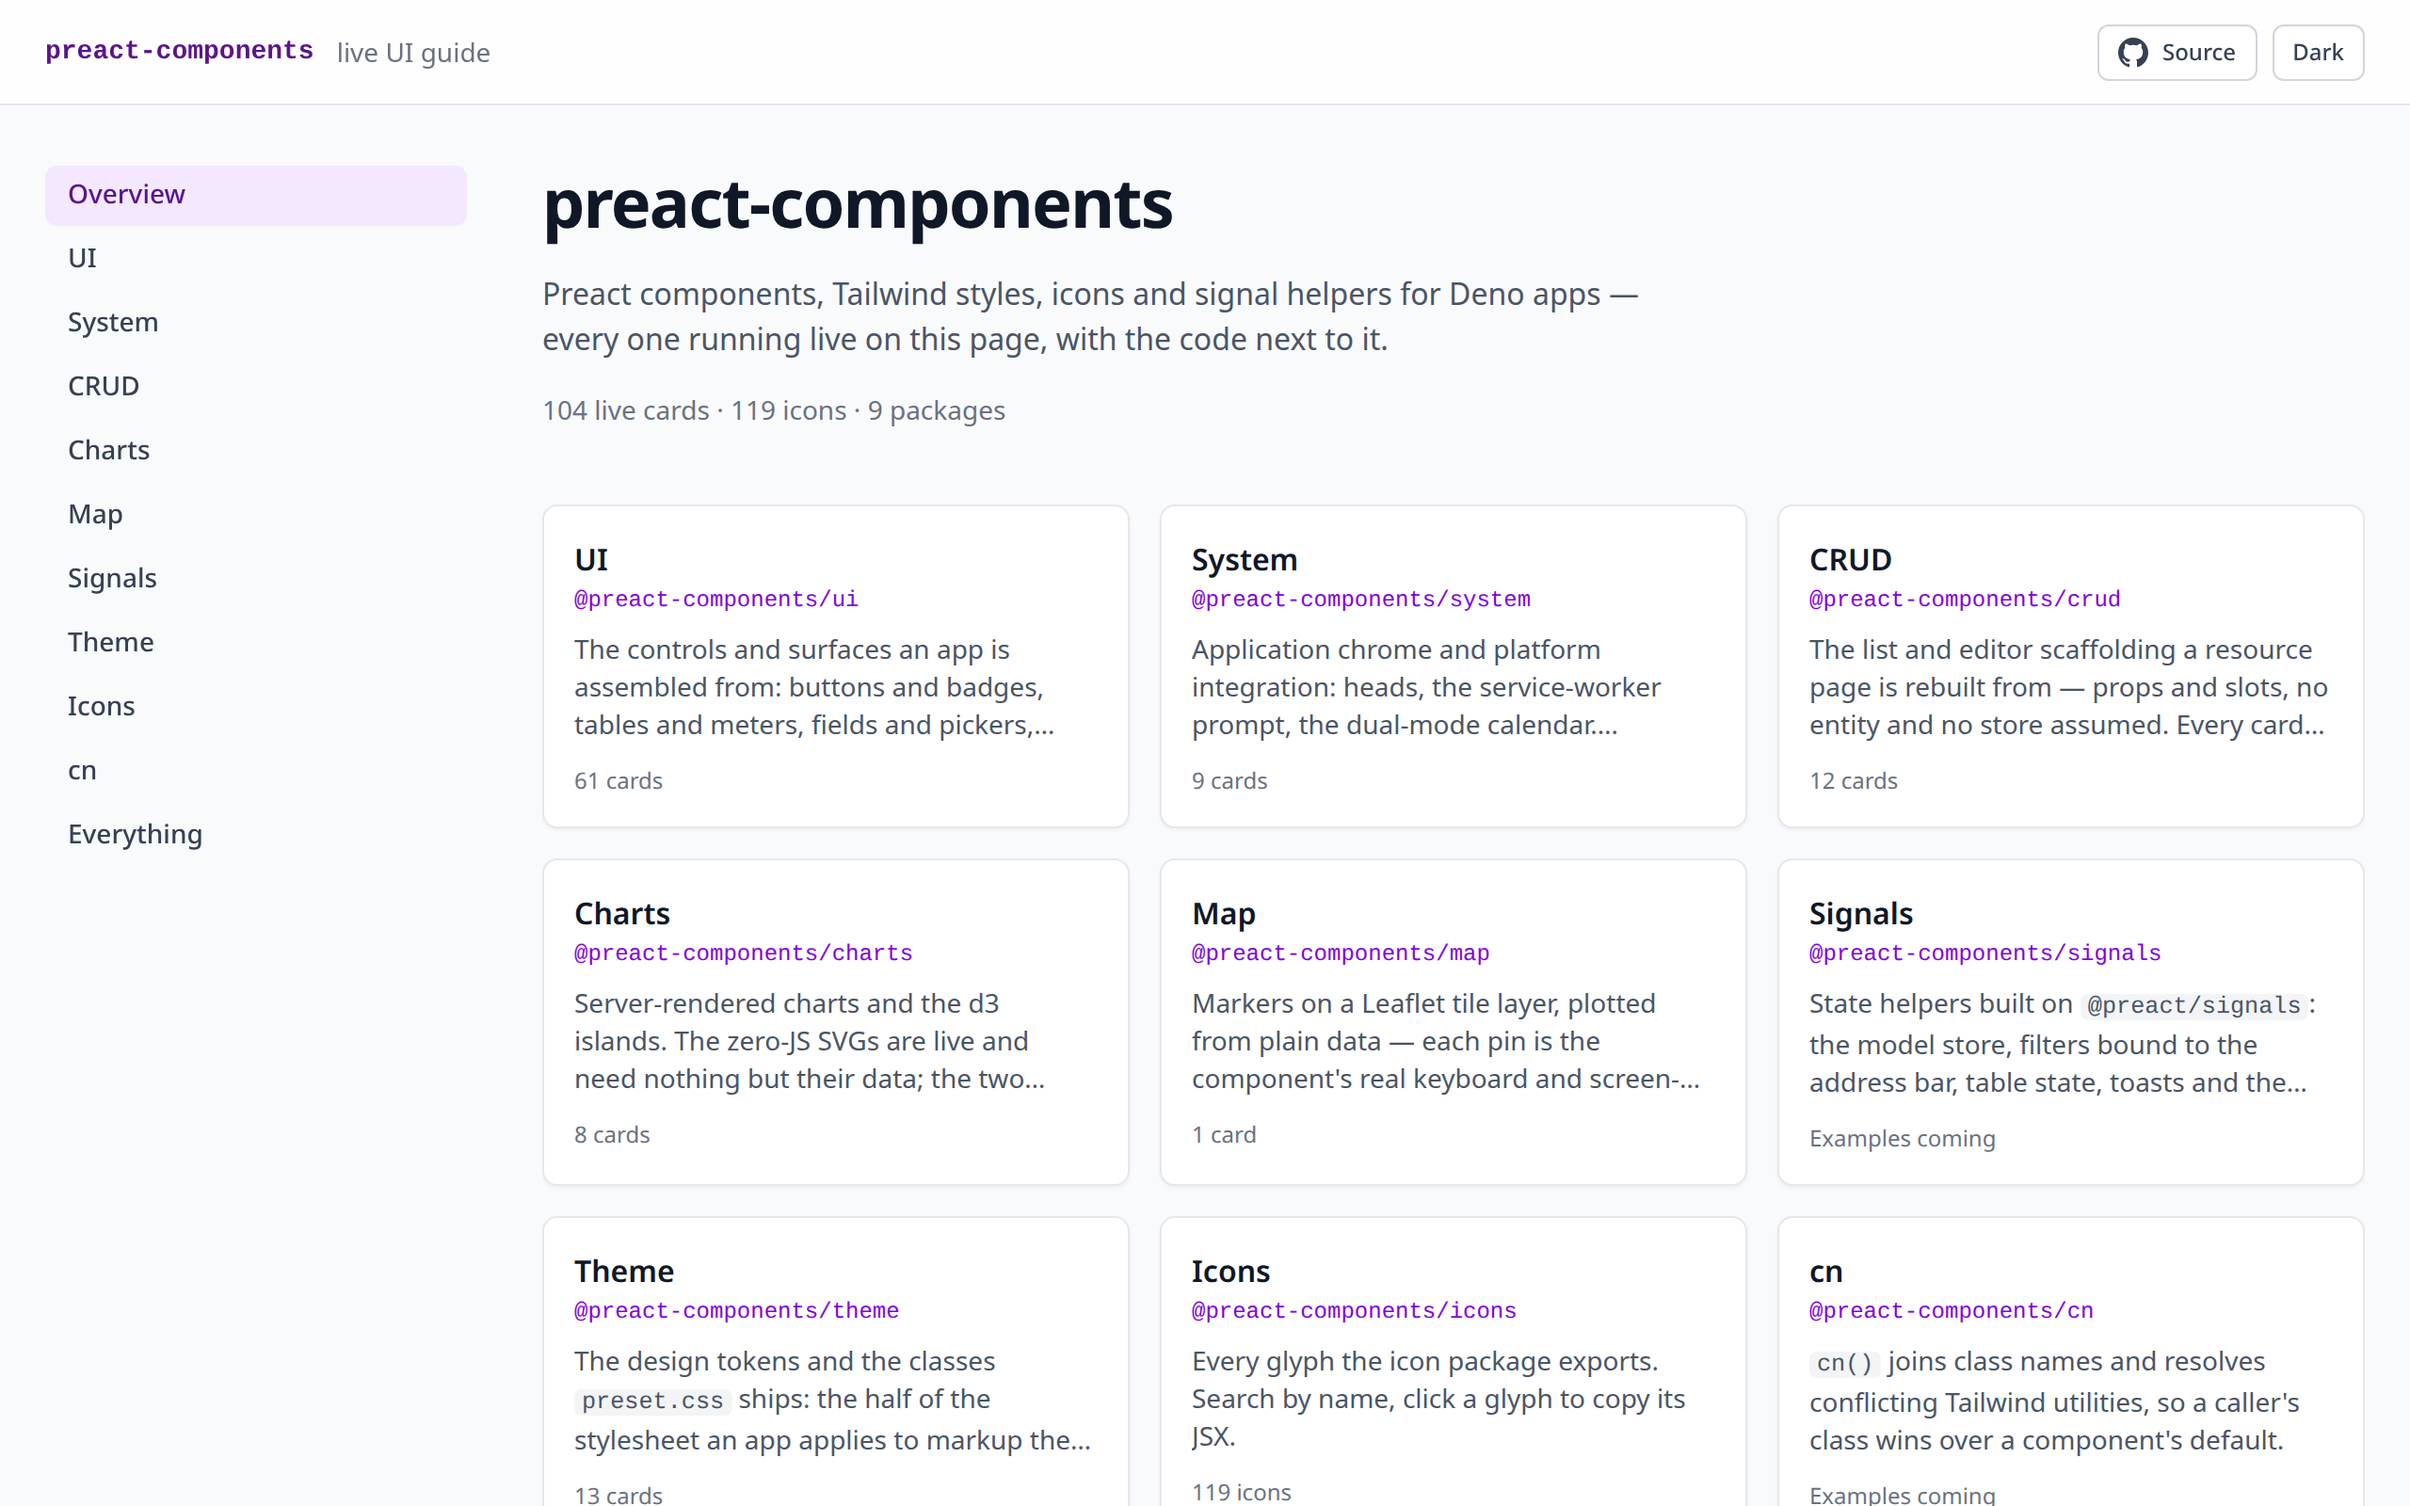
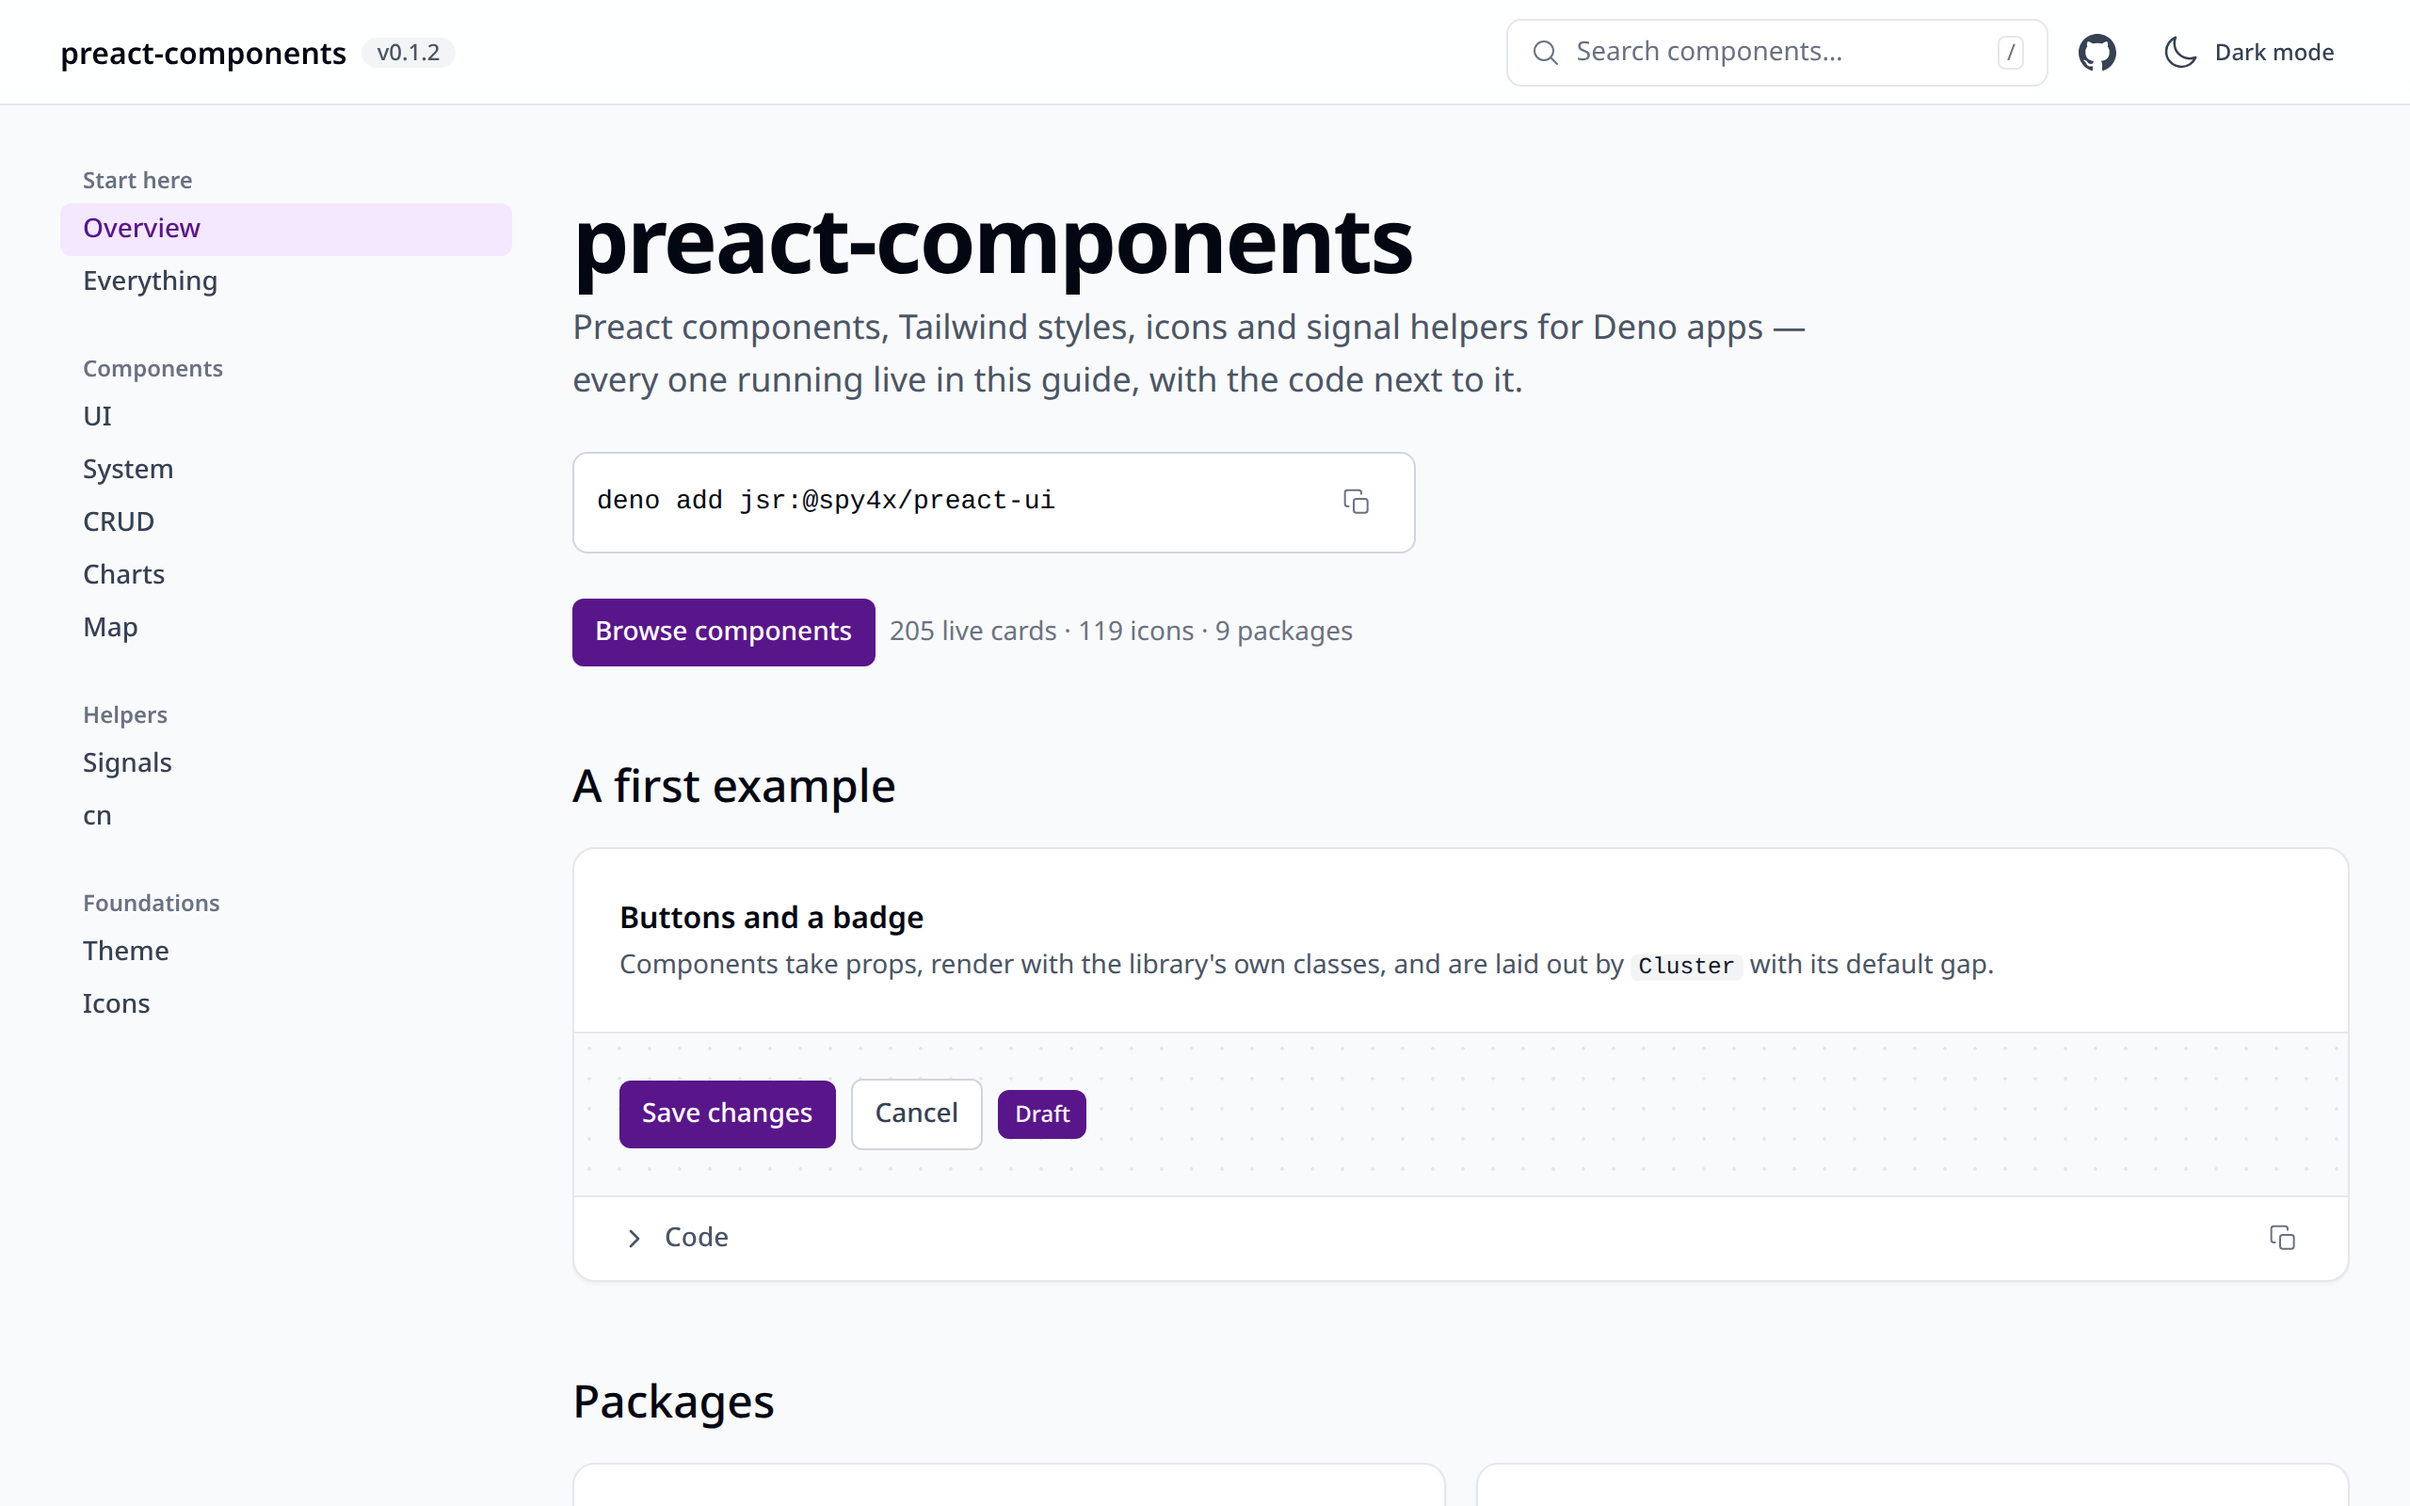
chore: close the guide redesign (#349)
* test: drop the spacing exemption the guide redesign needed

* docs: retake the README screenshots of the redesigned guide

* docs: rewrap the spacing check paragraph

diff --git a/infra/scripts/spacing-scale.test.ts b/infra/scripts/spacing-scale.test.ts
@@ -8,12 +8,6 @@
  * test asserts on classes, and the checker's own test has to spell out the classes it must
  * report. What a test asserts still has to match the component, so a test file cannot keep an
  * off-scale class the component no longer renders.
- *
- * `ui-guide/` and `pages/` joined with #328, which redesigns the guide. The section files the
- * redesign's later pull requests rewrite still carry off-scale values; each says so in its own
- * first line, {@link OFF_SCALE_MARKER}, and the pull request that moves the file to the scale
- * deletes that line. The marker lives in the file rather than in a list here, so two pull requests
- * that each clear one file never edit the same lines. No file may carry it once #328 closes.
  */
 
 import { expect } from "@std/expect"
@@ -31,26 +25,6 @@ export const SPACING_PACKAGES = [
   "ui-guide",
   "pages",
 ] as const
-
-/**
- * The line a file carries while it still has off-scale spacing and waits for #328 to move it to
- * the new design. Temporary: a marked file that has become clean fails the test, so a marker only
- * ever goes away, and none may be left when #328 closes.
- */
-export const OFF_SCALE_MARKER = /^\/\/ spacing: off-scale until #328\b/
-
-/**
- * The only files allowed to carry {@link OFF_SCALE_MARKER}: the section files #328's later pull
- * requests rewrite. A lane deletes a file's marker and never edits this list; the list only keeps a
- * marker from switching the check off anywhere else.
- */
-const MARKABLE_FILES = [
-  "ui-guide/sections/display.tsx",
-  "ui-guide/sections/feedback.tsx",
-  "ui-guide/sections/forms.tsx",
-  "ui-guide/sections/inputs.tsx",
-  "ui-guide/sections/theme-examples.tsx",
-]
 
 /** Build output under a covered directory: generated, not source. */
 const SKIPPED_DIRECTORIES = ["pages/dist"]
@@ -106,35 +80,10 @@ async function offScale(
   return found
 }
 
-/** The covered files that carry {@link OFF_SCALE_MARKER}. */
-async function markedFiles(files: string[]): Promise<string[]> {
-  const marked: string[] = []
-  for (const path of files) {
-    if (OFF_SCALE_MARKER.test(await readSource(path))) marked.push(path)
-  }
-  return marked
-}
-
 describe("spacing scale", () => {
   it("finds no spacing class off the scale in the covered packages", async () => {
     const files = (await Promise.all(SPACING_PACKAGES.map(sourceFiles))).flat()
-    const marked = await markedFiles(files)
-    expect(await offScale(files.filter((path) => !marked.includes(path)))).toEqual([])
-  })
-
-  it("lets only the files #328 still rewrites carry the marker, on their first line", async () => {
-    const files = (await Promise.all(SPACING_PACKAGES.map(sourceFiles))).flat()
-    const stray = (await markedFiles(files)).filter((path) => !MARKABLE_FILES.includes(path))
-    expect(stray, "only a listed section file may switch the spacing check off").toEqual([])
-  })
-
-  it("marks only files that still carry an off-scale value until #328 closes", async () => {
-    const files = (await Promise.all(SPACING_PACKAGES.map(sourceFiles))).flat()
-    const clean: string[] = []
-    for (const path of await markedFiles(files)) {
-      if ((await offScale([path])).length === 0) clean.push(path)
-    }
-    expect(clean, "these files are on the scale now: delete their marker line").toEqual([])
+    expect(await offScale(files)).toEqual([])
   })
 
   it("reads the components and the preset, and skips test files and generated files", async () => {

diff --git a/README.md b/README.md
@@ -10,7 +10,7 @@ The design system and the original markup are by [Eirene](https://github.com/Eir
 
 <picture>
   <source media="(prefers-color-scheme: dark)" srcset="docs/screenshots/guide-overview-dark.png">
-  <img src="docs/screenshots/guide-overview-light.png" width="1280" alt="The live UI guide's overview page: a side navigation listing every package, and one card per package — UI, System, CRUD, Charts, Map, Signals, Theme, Icons and cn — each with its import name, a one-line summary and a count of its live cards or icons, or the words Examples coming for a package that has none yet.">
+  <img src="docs/screenshots/guide-overview-light.png" width="1280" alt="The live UI guide's overview page: a header with the library's name and version, a search box, a GitHub link and a dark-mode switch; a side navigation grouped into Start here, Components, Helpers and Foundations; and the page itself, with the install command, a Browse components button beside the counts of live cards, icons and packages, and a first example card showing two buttons and a badge above its code toggle.">
 </picture>
 
 Live guide: https://spy4x.github.io/preact-components — every component running, with its code.
@@ -101,9 +101,9 @@ reusable Preact + signals package. See [`CREDITS.md`](./CREDITS.md).
 Taken from a local build of the demo site by `deno task --cwd pages screenshots`, in the headless
 Chromium the browser checks use, at 1280×800 and twice the pixel density.
 
-![The UI package's page in the opt-in ink dark palette: the side navigation lists the UI components by group, the Badge and StatusMark cards show their live examples, and the CiStatusPill card's description starts below them.](docs/screenshots/guide-ui-ink.png)
+![The UI package's page in the opt-in ink dark palette: the side navigation on the left, an On this page list of the page's sections and components on the right, and in the middle the Badge card, with its one-sentence description, its filled and outlined badges in every colour, and a props table below them.](docs/screenshots/guide-ui-ink.png)
 
-![The Charts package's page in the light palette: a bar chart of orders by plan, followed by the line and donut chart cards with their descriptions.](docs/screenshots/guide-charts-light.png)
+![The Charts package's page in the light palette: the Bars and DonutChart cards side by side, a bar chart of orders by plan and a donut of traffic sources, each with its description above and the Bars card's props table below, and an On this page list of the charts and their helpers on the right.](docs/screenshots/guide-charts-light.png)
 
 ## Where it runs
 

diff --git a/docs/spacing.md b/docs/spacing.md
@@ -158,11 +158,9 @@ review, so read the check as a floor, not as proof.
 
 It uses no Deno API. In this repository, `infra/scripts/spacing-scale.test.ts` runs it over every
 non-test source file of `theme/`, `ui/`, `system/`, `crud/`, `charts/`, `map/`, `ui-guide/` and
-`pages/`. Its one exemption is a first line, `// spacing: off-scale until #328`, in each guide
-section file still waiting for the #328 redesign. A marked file that is already on the scale fails
-the test, and no file may carry the line once that issue closes. `ui-guide/root-margin.test.tsx`
-fails when a component the guide demonstrates puts a margin on its root. `theme/README.md` →
-"Spacing" shows how an app runs the same check on its own files.
+`pages/`, with no exemption. `ui-guide/root-margin.test.tsx` fails when a component the guide
+demonstrates puts a margin on its root. `theme/README.md` → "Spacing" shows how an app runs the same
+check on its own files.
 
 The checker reads comments too, because Tailwind's scanner does and emits CSS for a class it finds
 in one. Only a word with the exact shape of a spacing class counts, so prose such as "a gap-free
